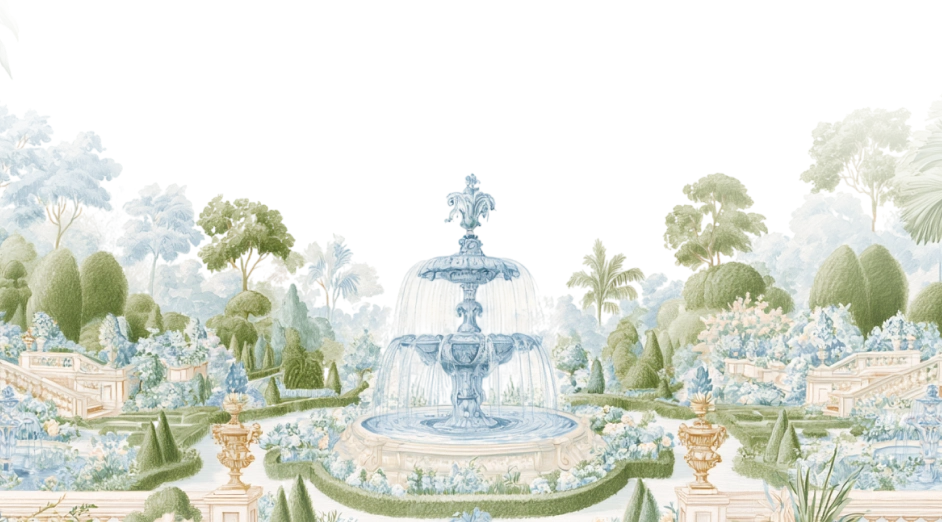
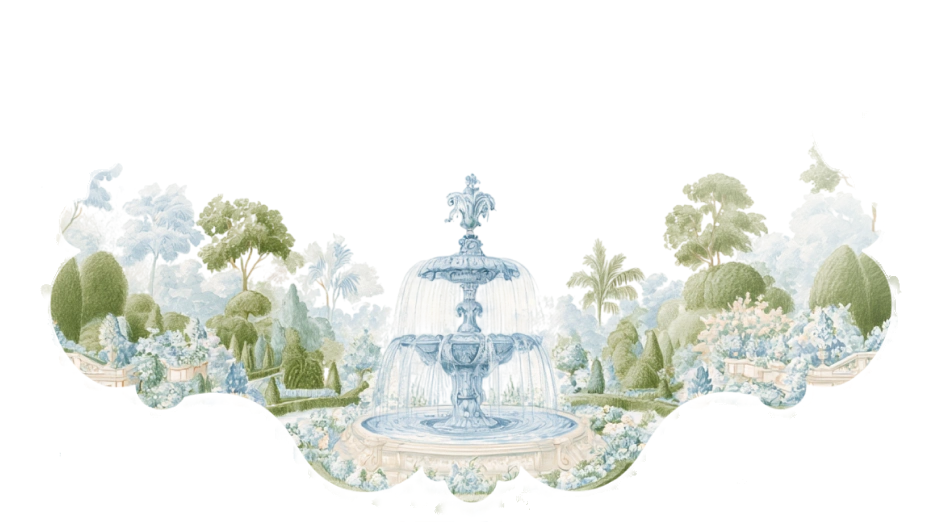
fix: apply a mask's alpha to the child Figma exported clipped to its box
Figma clips a masked child to the mask's bounding box and stops there -- the
mask's own alpha is never applied -- so a child under a SHAPED mask comes back
as a full opaque rectangle of the mask's size.

Invisible while the mask is a placeholder the size of its child (the gallery's
photo ovals, already handled as CSS_SHAPES). Very visible when the mask is a
shaped plate that also paints: 54:33 is the fountain garden at the foot of the
akad card, masked by 23:851, the card's inner plate, whose bottom edge is a
scallop. Clipped to the plate's box the garden painted straight through that
scallop and ended on a hard horizontal cut 67 rows below where the render has
it. 54:42 did the same against 29:241 in resepsi.

build_refs.py grows a MASKED table and multiplies the child's alpha by the
mask's before the webp is written. The offset is NOT the difference of the two
declared x values: a masked node's declared box is the unclipped node (54:33
declares 620x310 at x -11.95) and a flipped mask reports its right edge (29:241
declares x 533 and sits at 62), so both numbers are wrong in the same
subtraction -- plausible-looking on the akad pair and erasing the layer outright
on the resepsi one. The export starts at the mask's left edge by construction,
and the child's declared Y survives the clip, so dx is 0 and dy is the
difference of the declared Ys.

akad 1.922 -> 1.246, resepsi 2.102 -> 1.175, sheet 1.806 -> 1.646. A +/-14 row
[…]

Changed region(s): [[0.0, 0.2146, 1.0, 1.0]]

diff --git a/scripts/build_refs.py b/scripts/build_refs.py
@@ -27,7 +27,7 @@ template's own frame; ../slicing-wedding-template-5/scripts/build_refs.py has a 
 set if the shape of an entry is unclear.
 """
 import json, os, subprocess, sys
-from PIL import Image
+from PIL import Image, ImageChops
 Image.MAX_IMAGE_PIXELS = None
 
 FRAME = os.environ.get('BODY_FRAME', '')
@@ -95,6 +95,46 @@ CSS_SHAPES = {'29:275', '29:276', '29:277', '30:281',
 # against the plate's own 1.0MB. Expect one per event card.
 EMPTY = {'54:35', '54:41'}
 
+# Masked children, as {child id: mask id}. Figma clips a masked export to the mask's BOX
+# and stops there -- the mask's own ALPHA is not applied, so a child under a shaped mask
+# comes back as a full opaque rectangle of the mask's size.
+#
+# That is invisible while the mask is a placeholder the size of its child (the gallery's
+# photo ovals in CSS_SHAPES, where box and shape agree). It is very visible when the mask
+# is a shaped plate that also PAINTS: 54:33 is the fountain garden at the foot of the akad
+# card, masked by 23:851, the card's inner plate, whose bottom edge is scalloped. Clipped
+# to the plate's box the garden paints straight through that scallop and ends on a hard
+# horizontal cut ~67 rows below where the render has it.
+#
+# Both pairs here are the same geometry: a 471x706 plate and a 471x261 child sharing the
+# plate's left and BOTTOM edges. Nothing below assumes that -- the offset comes from the
+# two declared boxes -- but it is why one rule covers an akad node and its resepsi twin.
+MASKED = {'54:33': '23:851', '54:42': '29:241'}
+
+
+def apply_mask(child_png, mask_png, child, mask, scale=2):
+    """Multiply the child's alpha by the mask's, aligned inside the mask's box.
+
+    Do NOT difference the two declared x values. A masked node's declared box is the
+    UNCLIPPED node -- 54:33 declares 620x310 at x -11.95 and exports 471x261 -- and a
+    flipped mask reports its RIGHT edge (29:241 declares x 533 and sits at 62). Both
+    numbers are wrong in the same subtraction, and the akad pair happens to look plausible
+    while the resepsi pair erases the layer outright.
+
+    What IS reliable: the export is clipped to the mask's box, so it starts at the mask's
+    LEFT edge by construction (dx 0), and both nodes' declared Y survives the clip
+    (5618 - 5173 = 445 for akad, 6688 - 6236 = 452 for resepsi -- each matching the
+    position gen_band derives independently). Anything the child hangs below the mask
+    crops out of bounds and comes back transparent, which is what a mask means.
+    """
+    c = Image.open(child_png).convert('RGBA')
+    m = Image.open(mask_png).convert('RGBA')
+    dy = int(round((child['y'] - mask['y']) * scale))
+    window = m.split()[3].crop((0, dy, c.width, dy + c.height))
+    c.putalpha(ImageChops.multiply(c.split()[3], window))
+    return c
+
+
 if not BANDS:
     sys.exit('fill in BANDS first -- see the docstring')
 
@@ -104,6 +144,8 @@ def section(y):
         if y >= top:
             name = n
     return name
+
+FLAT_BY_ID = {f['id']: f for f in FLAT}
 
 zorder, nodes = [], {}
 for f in FLAT:
@@ -129,6 +171,14 @@ for f in FLAT:
     # is left in the score is compression on the toile's high-contrast edges, so quality
     # is the only lever still moving it. Drop to 92 if page weight ever matters more --
     # it beats 88 on both axes.
+    # A masked child is clipped to its mask's box but not to its shape -- see MASKED.
+    # Apply the shape here, so what reaches cwebp is what the design actually paints.
+    if f['id'] in MASKED:
+        mask = FLAT_BY_ID[MASKED[f['id']]]
+        masked_png = f".figma-tmp/masked-{f['id'].replace(':', '-')}.png"
+        apply_mask(src, f".figma-tmp/parts{FRAME}/{mask['id'].replace(':', '-')}.png",
+                   f, mask).save(masked_png)
+        src = masked_png
     subprocess.run(['cwebp', '-quiet', '-q', '95', '-alpha_q', '100', src, '-o', out], check=True)
     nodes[f['id']] = dict(asset=f"{sec}/parts/{f['id'].replace(':', '-')}.webp",
                           figmaName=f['name'], x=f['x'], y=f['y'], w=f['w'], h=f['h'])

diff --git a/SLICING.md b/SLICING.md
@@ -31,9 +31,9 @@ design space and `--px` is `100cqw / 596`; the numbers do not transfer from temp
 ## Picking this up in a new session
 
 - **State: the frame is COMPLETE.** Cover sliced (1.29) and all fourteen body bands sliced
-  (1.710 / 1.822 / 4.251 / 1.307 / 1.298 / 1.817 / 1.922 / 2.102 / **0.683** / 2.149 /
+  (1.710 / 1.822 / 4.251 / 1.307 / 1.298 / 1.817 / 1.246 / 1.175 / **0.683** / 2.149 /
   **0.898** / 1.554 / 1.195 / 2.846), covering y 0..12818 — the whole of Frame 1, at a
-  sheet-wide **1.806**. `npm install` is done; dev server is `npm run dev` on 5179. The countdown and bismillah were cut once by an
+  sheet-wide **1.646**. `npm install` is done; dev server is `npm run dev` on 5179. The countdown and bismillah were cut once by an
   earlier pass at 5.542 and 20.202 and then reworked — the findings sections below are all
   from that rework, and all of them apply to the bands still to come. `npm install` is done;
   dev server is `npm run dev` on 5179.
@@ -1102,12 +1102,12 @@ Cover: `.figma-tmp/web-cover-1x.png` (from `cover-shot.mjs`) vs
 | **cover (Frame 2, whole frame)** | **1.29** | **hero** (y 0..1108) | **1.710** |
 | **countdown** (1108..1802) | **1.822** | **bismillah** (1802..2161) | **4.251** |
 | **bride** (2161..3163) | **1.307** | **groom** (3163..4021) | **1.298** |
-| **quote** (4021..4425) | **1.817** | **akad** (4425..5907) | **1.922** |
-| **resepsi** (5907..7034) | **2.102** | **dresscode** (7034..7750) | **0.683** |
+| **quote** (4021..4425) | **1.817** | **akad** (4425..5907) | **1.246** |
+| **resepsi** (5907..7034) | **1.175** | **dresscode** (7034..7750) | **0.683** |
 | | | | |
 | **gallery** (7750..8865) | **2.149** | **gift** (8865..9565) | **0.898** |
 | **wishes** (9565..10763) | **1.554** | **rsvp** (10763..11452) | **1.195** |
-| **closing** (11452..12818) | **2.846** | **SHEET** (0..12818) | **1.806** |
+| **closing** (11452..12818) | **2.846** | **SHEET** (0..12818) | **1.646** |
 
 Every text ink box on the cover matches the render to 1px (headings, both guest lines),
 so what is left in that number is glyph hinting and webp loss, not placement.
@@ -1316,6 +1316,38 @@ returns empty (it falls back to "Ahmad & Salma", the design's other mock), so a 
 behind it could never fire, and swapping names in changes what the design SAYS rather than
 what it shows.
 
+## A masked export carries the mask's BOX and not its SHAPE
+
+Figma clips a masked child to the mask's bounding box and stops there — the mask's own
+alpha is never applied — so a child under a SHAPED mask comes back as a full opaque
+rectangle of the mask's size.
+
+That is invisible while the mask is a placeholder the size of its child. The gallery's
+photo ovals are exactly that (`31:289` declares 403.6x504.6 and exports 308x403, its
+oval's box), and they are in `CSS_SHAPES` precisely because the mask has nothing left to
+draw once the clip has happened.
+
+It is very visible when the mask is a shaped plate that also PAINTS. `54:33` is the
+fountain garden at the foot of the akad card, masked by `23:851`, the card's inner plate,
+whose bottom edge is a scallop. Clipped to the plate's box the garden painted straight
+through that scallop and ended on a hard horizontal cut 67 rows below where the render has
+it — the plate's rectangle, drawn over the card's own edge. Its resepsi twin `54:42` did
+the same against `29:241`.
+
+`build_refs.py`'s `MASKED` table now multiplies the child's alpha by the mask's before the
+webp is written. **Do not derive the offset by differencing the two declared x values.** A
+masked node's declared box is the UNCLIPPED node (`54:33` declares 620x310 at x −11.95),
+and a flipped mask reports its RIGHT edge (`29:241` declares x 533 and sits at 62): both
+numbers are wrong in the same subtraction, and it is the kind of wrong that looks plausible
+on one pair and erases the layer outright on the other. What survives the clip is the
+child's own Y — 5618 − 5173 = 445 for akad, 6688 − 6236 = 452 for resepsi, each matching
+the position `gen_band` derives independently — and the fact that the export starts at the
+mask's LEFT edge by construction. So dx is 0 and dy comes from the declared Ys.
+
+Measured after: akad 1.922 → **1.246**, resepsi 2.102 → **1.175**, the sheet 1.806 →
+**1.646**. A ±14 row scan over the akad plate bottoms out at a sharp minimum on 0, so the
+plate is aligned as well as shaped.
+
 ## Known residuals, now that every band is cut
 
 | where | what | worth |
@@ -1326,6 +1358,7 @@ what it shows.
 | resepsi | `24:897`, buried scrollwork whose position is not really known | ~0 |
 | resepsi | a pale-blue chrysanthemum at x 30..90, y 5880..5990 that no asset explains | unknown |
 | akad | the left column, x 0..99 — pinned layers `22:837` / `22:846` at scan positions | ~0.2 |
+| closing | edge botanicals around the polaroid — see "a masked export carries the box" | most of what is left |
 
 The chrysanthemum is the only open QUESTION rather than a known trade: it belongs to a node
 that renders far from where it is declared, and every band is now cut, so it is either a
